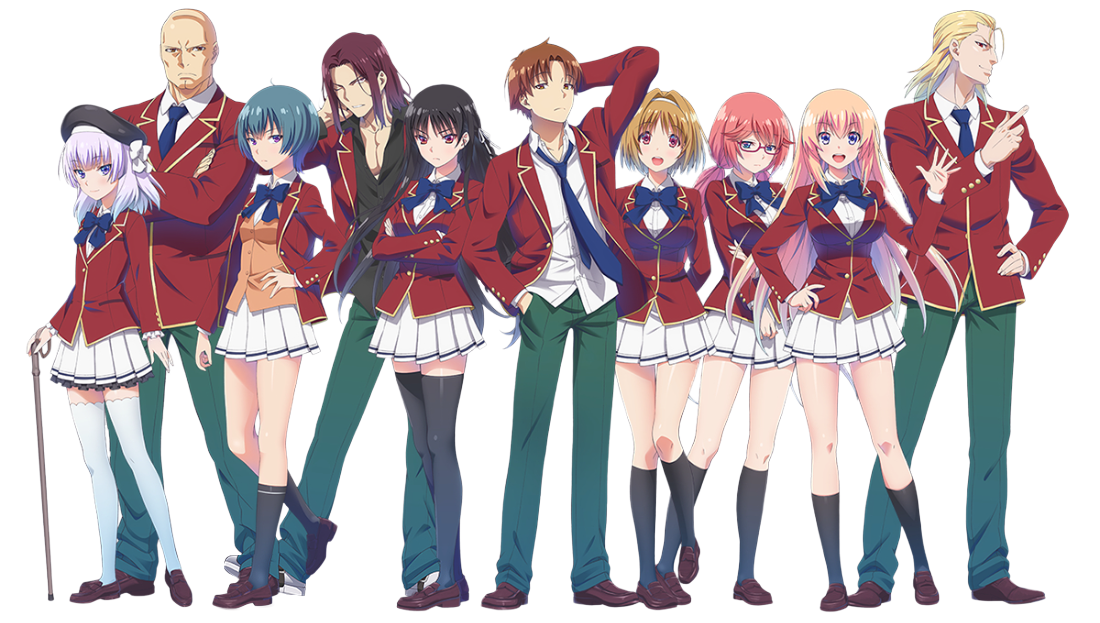
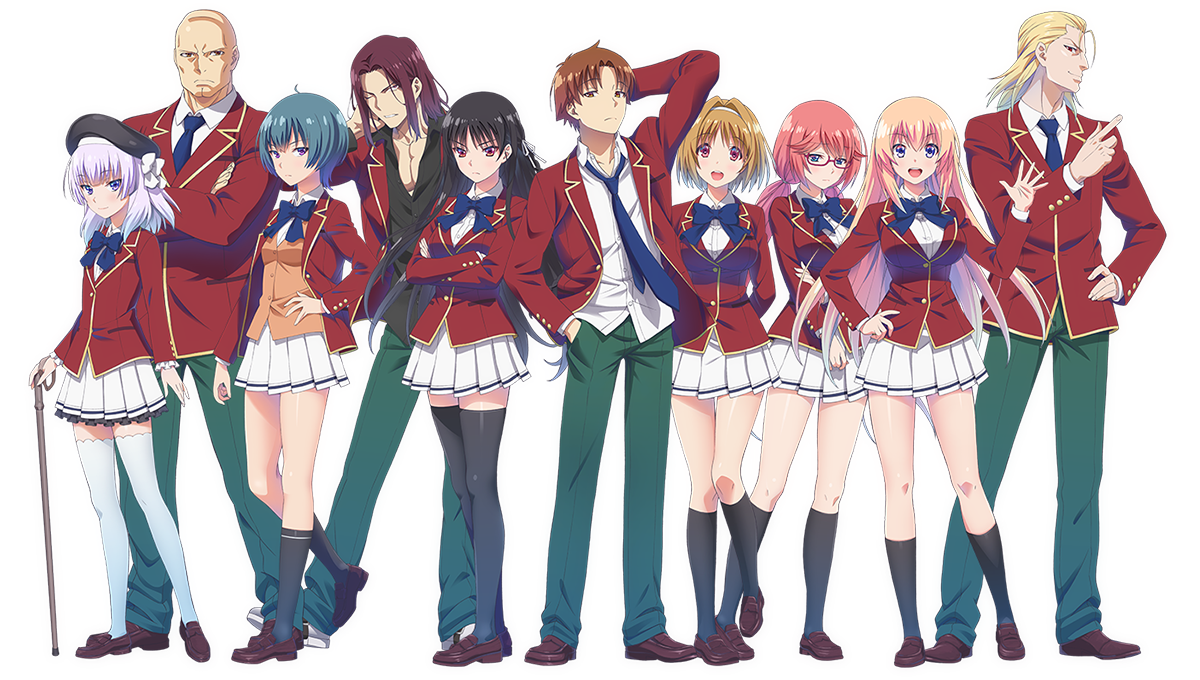
upload

diff --git a/index.html b/index.html
@@ -9,7 +9,7 @@ layout: default
             text-decoration: none;
         }
     </style>
-    <img id="ln" src="/images/ln.png" alt="ln"><br><br>
+    <img id="ln" src="/images/ln-min.png" alt="ln"><br><br>
     <h2>Classroom of the Elite Light Novel</h2>
     <span class="text">Câu chuyện bắt đầu tại Trường Cao Trung Nâng cao, một ngôi trường hàng đầu với các cơ sở cực kỳ
         hiện đại được xây dựng bởi chính phủ, nơi mà 100% chắc chắn học sinh sẽ vào đại học hoặc có việc làm. Các học
